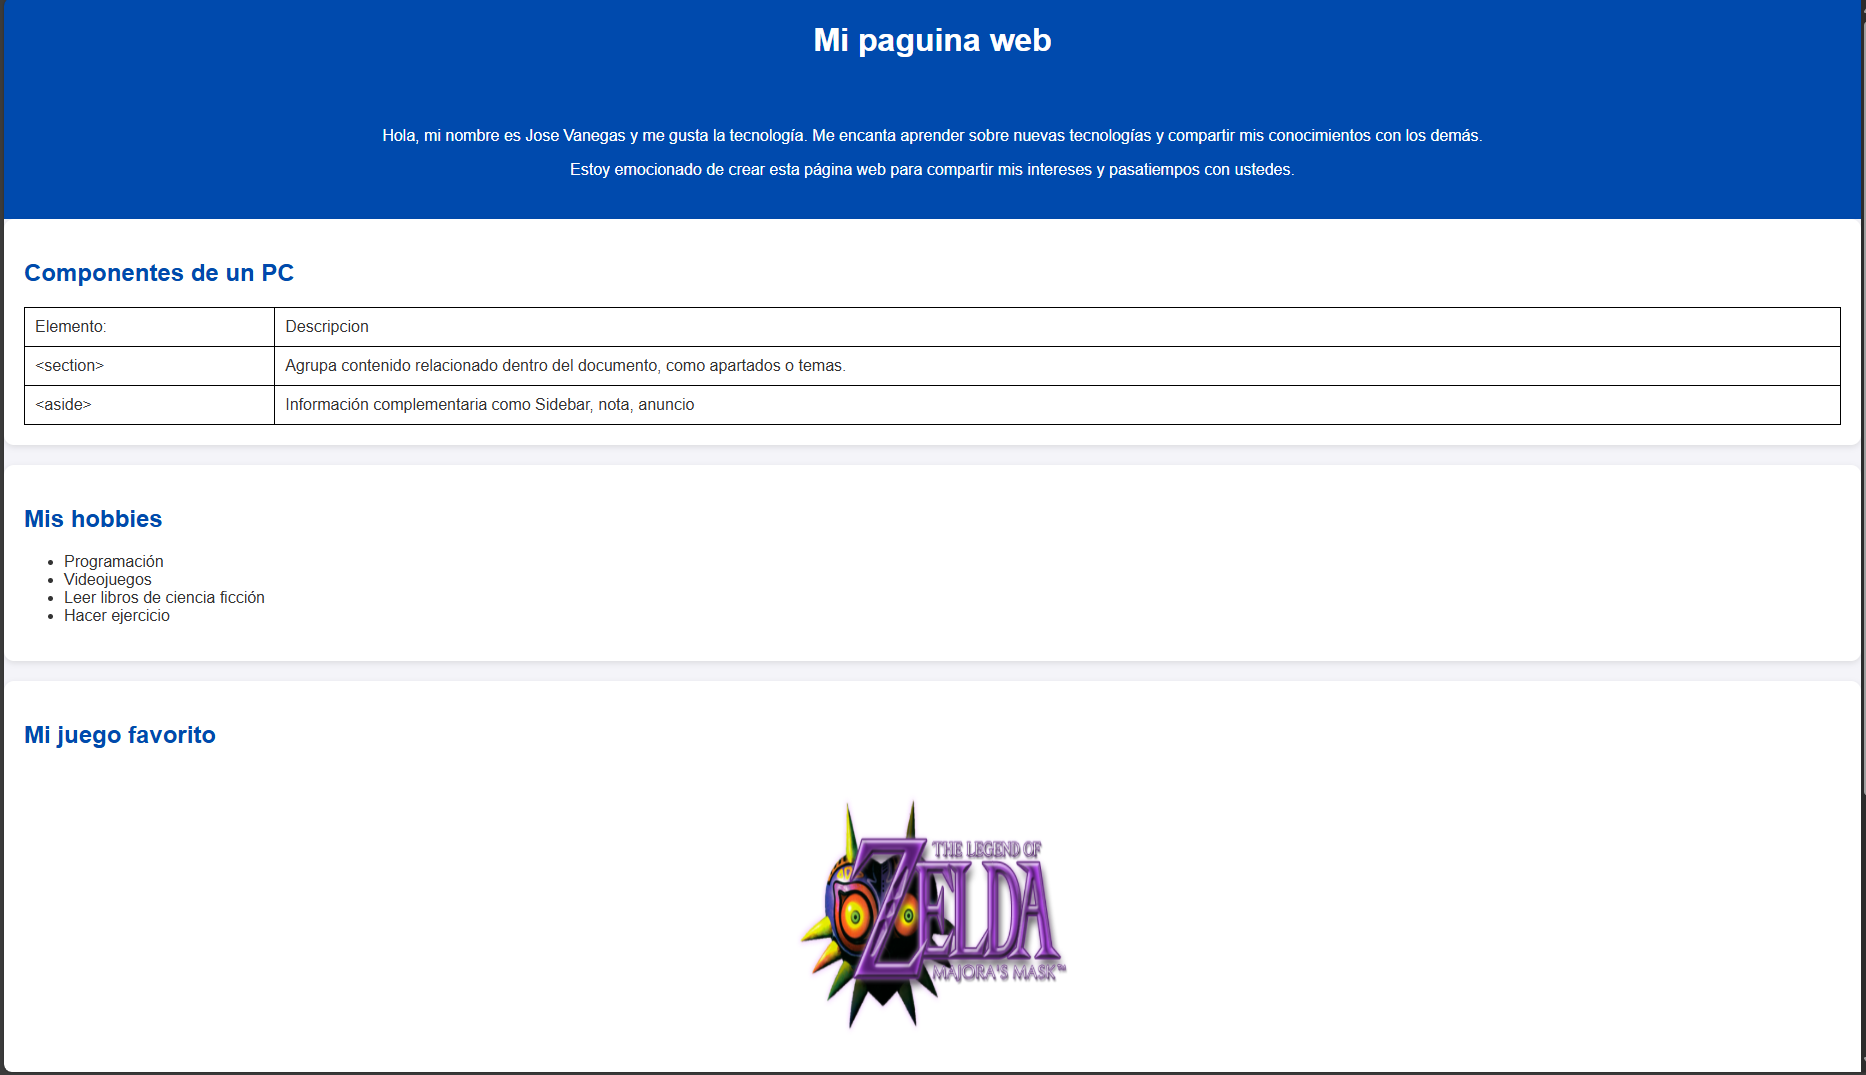
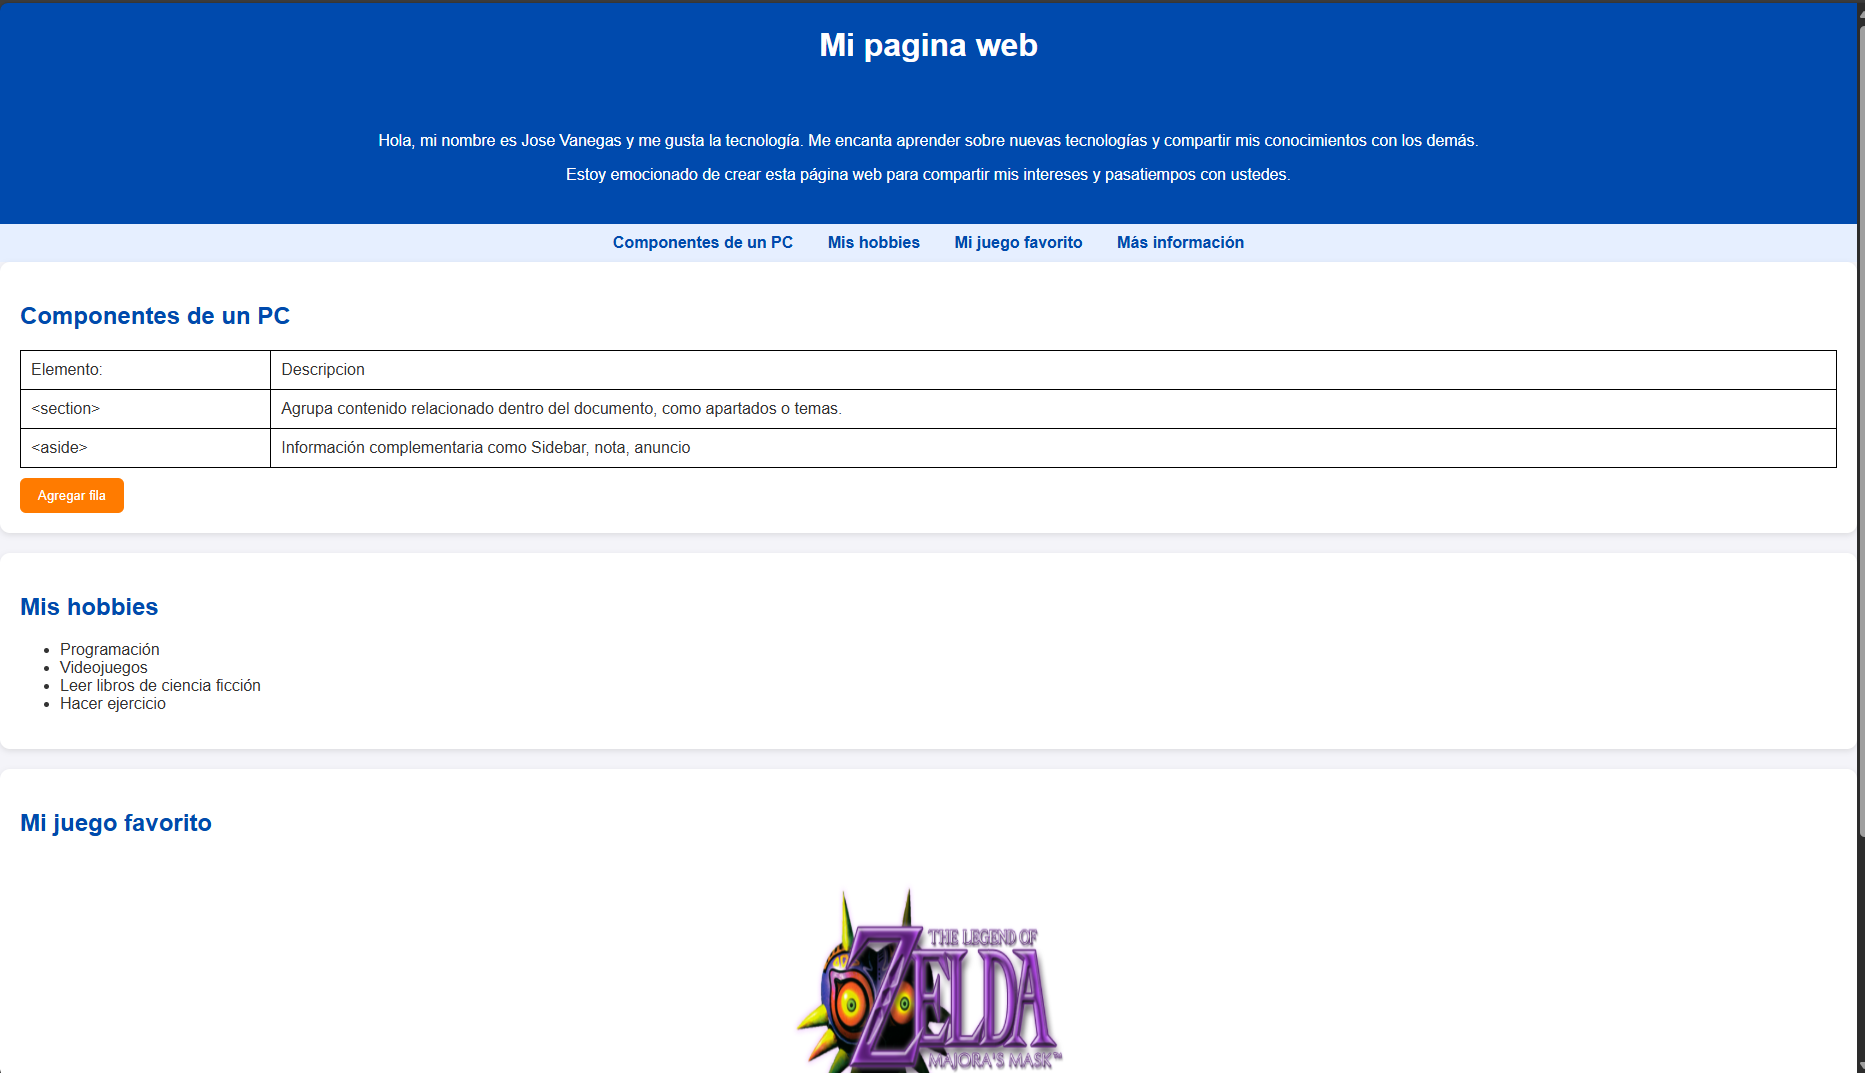
primera practica v1.2

diff --git a/index.html b/index.html
@@ -14,14 +14,23 @@
   </head>
   <body>
     <header>
-      <h1>Mi paguina web</h1>
+      <h1>Mi pagina web</h1>
       <h2>Sobre mi</h2>
       <p>Hola, mi nombre es Jose Vanegas y me gusta la tecnología. Me encanta aprender sobre nuevas tecnologías y compartir mis conocimientos con los demás.</p>
       <p>Estoy emocionado de crear esta página web para compartir mis intereses y pasatiempos con ustedes.</p>  
     
     </header>
 
-    <section>
+    <nav>
+    <ul>
+      <li><a href="#componentes">Componentes de un PC</a></li>
+      <li><a href="#hobbies">Mis hobbies</a></li>
+      <li><a href="#juego">Mi juego favorito</a></li>
+      <li><a href="#info">Más información</a></li>
+    </ul>
+  </nav>
+
+    <section id="componentes">
         <h2>Componentes de un PC</h2>
         <table>
             <tr>
@@ -37,10 +46,11 @@
             <td>Información complementaria como Sidebar, nota, anuncio</td>
         </tr>
         </table>
+        <button id="agregarFila">Agregar fila</button>
 
     </section>
 
-    <section>
+    <section id="hobbies">
         <h2>Mis hobbies</h2>
         <ul>
             <li>Programación</li>
@@ -50,7 +60,7 @@
         </ul>
     </section>
 
-    <section>
+    <section id="juego">
         <h2>Mi juego favorito</h2>
         <figure>
         <img src="zelda.png" alt="Juego The Legend of Zelda" height="300" width="300">
@@ -58,13 +68,7 @@
       </figure>
     </section>
     
-        <section>
-        <h2>Más información</h2>
-        <details>
-            <summary>Haz clic para saber más</summary>
-            <p>Esta página fue creada como práctica de la asignatura <em>Programación y Plataformas Web</em> aplicando los estándares de HTML5, CSS y JavaScript.</p>
-        </details>
-        </section>
+        
         
     <footer>
         <p>Jose Vanegas Materia: Programación y Plataformas web grupo 2 </p>

diff --git a/codigo.js b/codigo.js
@@ -1,7 +1,24 @@
-// Cambia el color del título principal al hacer clic
+//Cambia el color del título principal al hacer clic
 document.getElementById("colorBtn").addEventListener("click", function () {
   const h1 = document.querySelector("h1");
   const colores = ["#e63946", "#457b9d", "#2a9d8f", "#ffb703", "#9c27b0"];
   const colorAleatorio = colores[Math.floor(Math.random() * colores.length)];
   h1.style.color = colorAleatorio;
 });
+
+// Agrega una nueva fila a la tabla
+const boton = document.getElementById("agregarFila");
+if (boton) {
+  boton.addEventListener("click", () => {
+    const tabla = document.querySelector("table");
+    if (!tabla) return;
+    const nuevaFila = tabla.insertRow();
+    nuevaFila.innerHTML = `
+      <td>&lt;article&gt;</td>
+      <td>Sección independiente del contenido que puede tener su propio título.</td>
+    `;
+    // Efecto visual al agregar
+    nuevaFila.style.backgroundColor = "#d0f0c0";
+    setTimeout(() => (nuevaFila.style.backgroundColor = "white"), 1000);
+  });
+}

diff --git a/style.css b/style.css
@@ -24,12 +24,6 @@ h2 {
   margin-top: 20px;
 }
 
-/* Secciones */
-main {
-  width: 85%;
-  margin: 20px auto;
-}
-
 section {
   background-color: white;
   padding: 20px;
@@ -83,4 +77,32 @@ footer {
   background-color: #002f6c;
   color: white;
   padding: 15px 0;
+}
+
+/* Navegación */
+nav {
+  background-color: #e6efff;
+  padding: 10px 0;
+  text-align: center;
+}
+
+nav ul {
+  list-style: none;
+  padding: 0;
+  margin: 0;
+}
+
+nav ul li {
+  display: inline;
+  margin: 0 15px;
+}
+
+nav a {
+  text-decoration: none;
+  color: #004aad;
+  font-weight: bold;
+}
+
+nav a:hover {
+  text-decoration: underline;
 }

diff --git a/README.md b/README.md
@@ -5,8 +5,8 @@
 **Asignatura:** Programación y Plataformas Web  
 **Unidad:** 1.2 – Estándares Web  
 **Estudiante:** Jose Vanegas  
-**Repositorio:** https://github.com/josevac1/icc-ppw-u1-mi_pagina_web
-**Página desplegada (GitHub Pages):** https://josevac1.github.io/icc-ppw-u1-mi_pagina_web/
+**Repositorio:** [https://github.com/josevac1/icc-ppw-u1-mi_pagina_web)
+**Página desplegada (GitHub Pages):** [https://josevac1.github.io/icc-ppw-u1-mi_pagina_web/)
 
 ---
 
@@ -29,7 +29,7 @@
 | Etiqueta | Descripción | Implementación |
 |-----------|--------------|----------------|
 | `<figure>` | Contenedor para imagen con pie de foto | Imagen del videojuego Zelda con `<figcaption>` |
-| `<details>` / `<summary>` | Muestra información adicional al desplegar | Información sobre la práctica con HTML5 |
+| `<nav>` | Define una barra de navegación semántica | Enlaces a secciones: Componentes, Hobbies, Juego y Más información |
 
 **Código usado:**
 ```html
@@ -38,10 +38,14 @@
   <figcaption>The Legend of Zelda — Aventura épica</figcaption>
 </figure>
 
-<details>
-  <summary>Haz clic para saber más</summary>
-  <p>Esta página fue creada como práctica de la asignatura Programación y Plataformas Web.</p>
-</details>
+<nav>
+  <ul>
+    <li><a href="#componentes">Componentes de un PC</a></li>
+    <li><a href="#hobbies">Mis hobbies</a></li>
+    <li><a href="#juego">Mi juego favorito</a></li>
+    <li><a href="#info">Más información</a></li>
+  </ul>
+</nav>
 ```
 
 
@@ -60,8 +64,106 @@ Estructura final del proyecto:
 ```
 icc-ppw-u1-mi_pagina_web/
 │
+├── antes.png
 ├── codigo.js
+├── despues.png
 ├── index.html
 ├── README.md
-└── style.css
+├── style.css
+└── zelda.png
 ```
+---
+
+### 2. Implementación en HTML
+
+Los nuevos archivos se enlazaron dentro del documento `index.html` de la siguiente forma:
+
+**En el `<head>` (para el CSS):**
+
+```html
+<link rel="stylesheet" href="style.css" />
+
+```
+
+**Antes de cerrar el `<body>` (para el JavaScript):**
+
+```html
+<script src="codigo.js"></script>
+
+```
+
+---
+
+### 3. Estilos aplicados con CSS
+
+* COMLETAR LA TABLA
+
+| Elemento                    | Estilo implementado                                            | Descripción                             |
+| --------------------------- | -------------------------------------------------------------- | --------------------------------------- |
+| `body`                      |    `font-family: Arial, sans-serif;margin: 0;background-color: #f4f4f9; color: #333;`     |    `Fondo claro y tipografía legible`     |
+| `header`                    | `background-color: #004aad;color: white;text-align: center;padding: 1.5em 0;`| `Encabezado azul con texto centrado`|
+| `table`                     |  `width: 100%;border-collapse: collapse;margin-top: 10px;` | `Tabla con bordes definidos y compacta` |
+| `button`                    | ` background-color: #ff7b00;color: white;border: none;padding: 10px 18px;border-radius: 6px;cursor: pointer;margin-top: 10px;` | `Botón naranja con bordes suaves`  |
+| `section`                   | `  background-color: white;padding: 20px;border-radius: 10px;margin-bottom: 20px;box-shadow: 0 2px 6px rgba(0,0,0,0.1);` | `Contenedor blanco con sombra y esquinas redondeadas` |
+| `progress`                  | `accent-color: #007bff; width: 100%;`                          | Personalización de la barra de progreso |
+
+**Ejemplo en el código:**
+
+AGREGAR DOS EJEMPLOS DE SU CODIGO CSS
+
+```css
+section {
+  background-color: white;
+  padding: 20px;
+  border-radius: 10px;
+  margin-bottom: 20px;
+  box-shadow: 0 2px 6px rgba(0,0,0,0.1);
+}
+
+table {
+  width: 100%;
+  border-collapse: collapse;
+  margin-top: 10px;
+}
+```
+---
+
+###  4. Interactividad agregada con JavaScript
+
+El archivo `codigo.js` incorpora dos acciones básicas:
+
+1. **Cambia el color del título principal al hacer clic**
+
+   ```javascript
+   document.getElementById("colorBtn").addEventListener("click", function () {
+  const h1 = document.querySelector("h1");
+  const colores = ["#e63946", "#457b9d", "#2a9d8f", "#ffb703", "#9c27b0"];
+  const colorAleatorio = colores[Math.floor(Math.random() * colores.length)];
+  h1.style.color = colorAleatorio;
+});
+
+// Agrega una nueva fila a la tabla
+const boton = document.getElementById("agregarFila");
+if (boton) {
+  boton.addEventListener("click", () => {
+    const tabla = document.querySelector("table");
+    if (!tabla) return;
+    const nuevaFila = tabla.insertRow();
+    nuevaFila.innerHTML = `
+      <td>&lt;article&gt;</td>
+      <td>Sección independiente del contenido que puede tener su propio título.</td>
+    `;
+    // Efecto visual al agregar
+    nuevaFila.style.backgroundColor = "#d0f0c0";
+    setTimeout(() => (nuevaFila.style.backgroundColor = "white"), 1000);
+  });
+}
+
+   ```
+## Capturas de pantalla del proyecto final
+
+* Agregar su captura de pantalla del proyecto final funcionando en el navegador, de ambas versiones (sin y con CSS/JS)
+* Antes
+![alt text](<antes.png>)
+* despues
+![alt text](<despues.png>)
